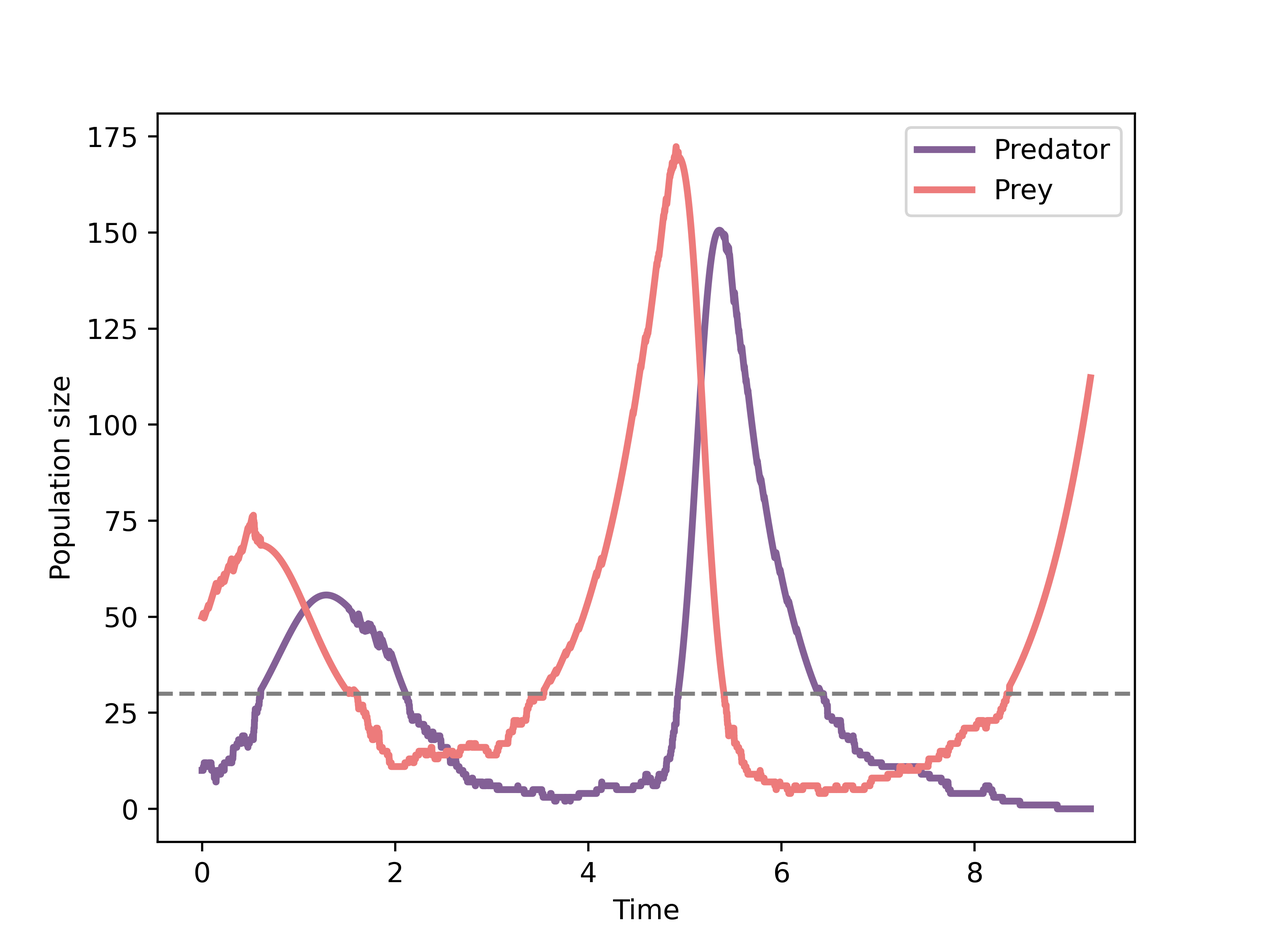
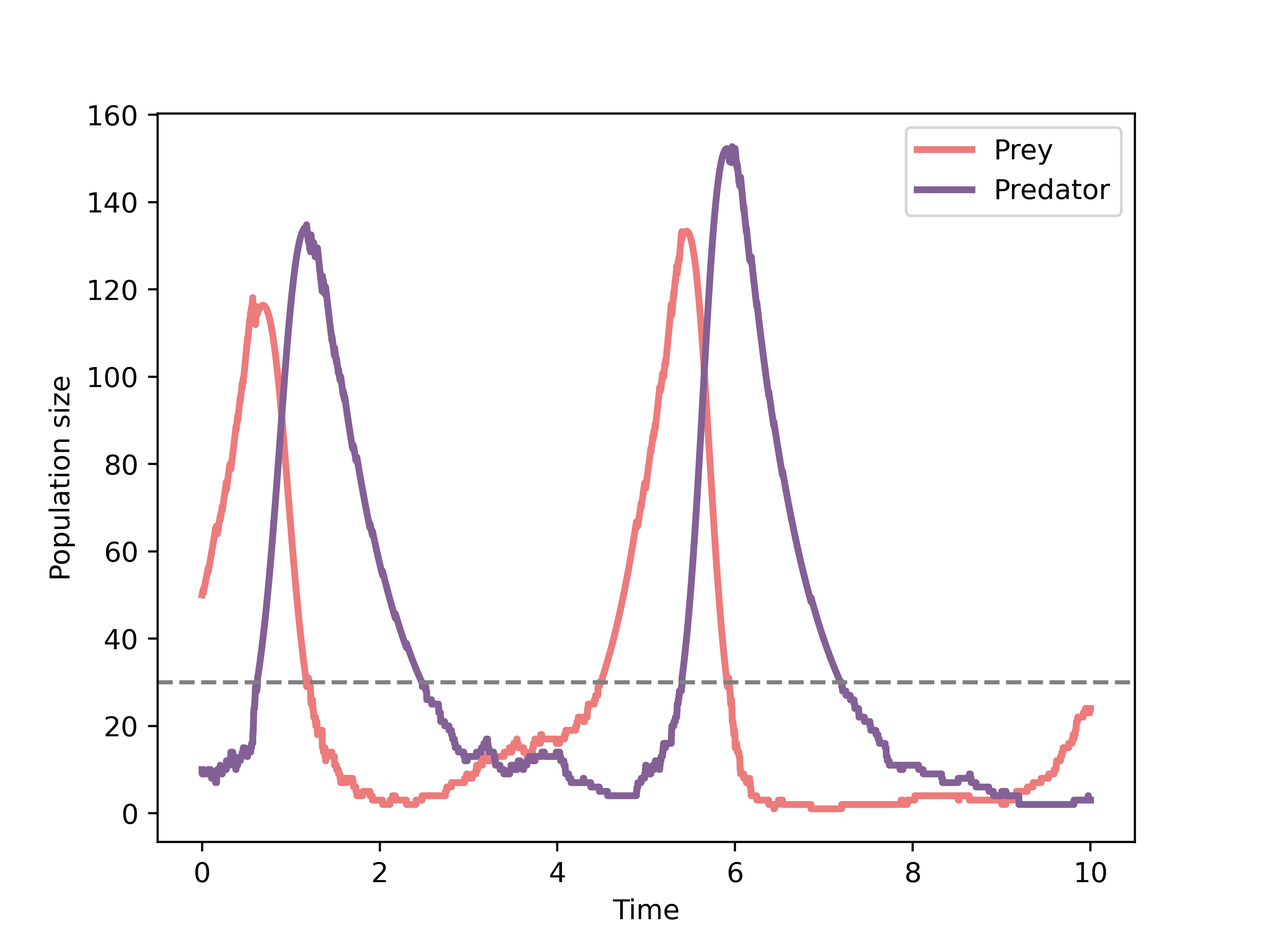
updating JSF

diff --git a/JSF/searchindex.js b/JSF/searchindex.js
@@ -1,1 +1,1 @@
-Search.setIndex({"alltitles": {"API": [[1, "api"]], "Code formating and checking": [[1, "code-formating-and-checking"]], "FAQs": [[1, "faqs"]], "From GitHub": [[1, "from-github"]], "From Local Copy": [[1, "from-local-copy"]], "Housekeeping": [[1, "housekeeping"]], "Installation": [[1, "installation"]], "JSF Mathematical Framework": [[1, "jsf-mathematical-framework"]], "Jump-Switch-Flow Documentation": [[1, "jump-switch-flow-documentation"]], "Lotka-Volterra predator-prey model example": [[1, "lotka-volterra-predator-prey-model-example"]], "Modules": [[1, null]], "Overview": [[1, "overview"]], "Predator-prey model with JSF example": [[1, "predator-prey-model-with-jsf-example"]], "Testing": [[1, "testing"]], "Types": [[1, "types"]], "Visualising the simulation": [[1, "visualising-the-simulation"]], "exact": [[0, "module-jsf.exact"]], "jsf": [[2, "module-jsf"]]}, "docnames": ["exact", "index", "jsf"], "envversion": {"sphinx": 61, "sphinx.domains.c": 3, "sphinx.domains.changeset": 1, "sphinx.domains.citation": 1, "sphinx.domains.cpp": 9, "sphinx.domains.index": 1, "sphinx.domains.javascript": 3, "sphinx.domains.math": 2, "sphinx.domains.python": 4, "sphinx.domains.rst": 2, "sphinx.domains.std": 2}, "filenames": ["exact.rst", "index.rst", "jsf.rst"], "indexentries": {}, "objects": {"": [[2, 0, 0, "-", "jsf"]], "jsf": [[2, 1, 1, "", "ArrayMultiplyAB"], [2, 1, 1, "", "ArrayPlusAB"], [2, 1, 1, "", "ArraySubtractAB"], [2, 1, 1, "", "ComputeFiringTimes"], [2, 1, 1, "", "ComputeIntegralOfFiringTimes"], [2, 1, 1, "", "ComputedXdt"], [2, 1, 1, "", "ImplementFiredReaction"], [2, 1, 1, "", "IsDiscrete"], [2, 1, 1, "", "JumpSwitchFlowSimulator"], [2, 1, 1, "", "MatrixDOTArray"], [2, 1, 1, "", "MatrixPlusAB"], [2, 1, 1, "", "MatrixSubtractAB"], [2, 1, 1, "", "UpdateCompartmentRegime"], [0, 0, 0, "-", "exact"], [2, 1, 1, "", "jsf"], [2, 1, 1, "", "num_non_zero"]], "jsf.exact": [[0, 2, 1, "", "JumpClock"], [0, 1, 1, "", "JumpSwitchFlowExact"]], "jsf.exact.JumpClock": [[0, 3, 1, "", "clock"], [0, 4, 1, "", "set_clock"], [0, 3, 1, "", "start_time"]]}, "objnames": {"0": ["py", "module", "Python module"], "1": ["py", "function", "Python function"], "2": ["py", "class", "Python class"], "3": ["py", "attribute", "Python attribute"], "4": ["py", "method", "Python method"]}, "objtypes": {"0": "py:module", "1": "py:function", "2": "py:class", "3": "py:attribute", "4": "py:method"}, "terms": {"": 1, "0": 1, "00": 1, "01": 1, "05": 1, "0right": [], "1": 1, "10": 1, "1000": [], "1a": [], "1b": [], "1c": [], "1d": [], "2": 1, "2e": [], "3": [], "30": 1, "4": [], "42": 1, "50": 1, "500": 1, "6": [], "600": [], "7": [], "9": 1, "A": 2, "As": 1, "At": 1, "For": 1, "If": [1, 2], "In": 1, "It": [0, 1], "The": [1, 2], "Then": [], "There": 1, "These": 1, "To": 1, "_": 1, "_f": 1, "_j": 1, "_k": 1, "_kinmathc": [], "_static": [], "abl": 1, "abov": 1, "absorb": 1, "abst": 2, "accommod": 1, "actual": 1, "ae": [], "after": [], "algorithm": 1, "align": [], "all": 1, "allow": 1, "alpha": 1, "also": [], "alt": [], "amount": [], "an": 1, "analog": 1, "ani": [0, 1, 2], "answer": 1, "ar": [1, 2], "arg": [0, 2], "around": [], "arrai": [1, 2], "arraya": 2, "arrayb": 2, "arraymultiplyab": [1, 2], "arrayplusab": [1, 2], "arraysubtractab": [1, 2], "arriv": [], "assist": [], "assum": 1, "atto": 1, "avail": 1, "axhlin": 1, "b": 1, "bar": 1, "base": 0, "becaus": 1, "becom": 1, "been": 1, "befor": [], "begin": 1, "behav": 1, "behaviour": 1, "being": 1, "below": 1, "beta": 1, "between": 1, "bit": 1, "black": 1, "block": 1, "bool": 2, "boolean": [1, 2], "both": 1, "c": 1, "call": 1, "callabl": [0, 2], "can": 1, "capabl": 1, "captur": 1, "case": 1, "caus": 1, "cc": [], "cdot": 1, "cell": 1, "center": [], "chang": 1, "class": 0, "classic": 1, "clock": 0, "coeffici": 1, "coexist": 1, "color": 1, "colour": [], "column": 1, "com": 1, "combin": 1, "command": 1, "compar": 1, "compart": [1, 2], "compartinnu": 2, "compartment": 1, "compartmentvalu": 1, "comput": [0, 2], "computedxdt": [1, 2], "computefiringtim": [1, 2], "computeintegraloffiringtim": [1, 2], "condit": 1, "config": 1, "configur": 1, "conserv": 1, "consid": 1, "consist": [], "constant": 1, "consum": [], "contain": [1, 2], "continu": [1, 2], "continuum": 1, "contribut": 2, "could": 1, "count": [], "coupl": 1, "cp": [], "cross": 1, "ctmc": 1, "cup": 1, "current": 2, "cycl": 1, "d": 1, "dash": [], "data": [], "datafram": 1, "death": 1, "decreas": 1, "defin": 1, "definit": 1, "delta": 1, "delta_": [], "denot": 1, "depend": 1, "deriv": [1, 2], "describ": 1, "descript": 1, "detail": [], "determinist": 1, "dgermano8": 1, "diagram": 1, "dict": [0, 2], "dictionari": 2, "die": 1, "differ": 1, "differenti": [], "directori": 1, "discov": 1, "discret": 1, "do": 1, "dodisc": [1, 2], "doe": 0, "domain": 1, "down": [], "dpi": 1, "dt": [1, 2], "dtau": 2, "due": 1, "dure": [], "dv_i": [], "dxdt": 2, "dynam": 1, "e": 1, "each": [1, 2], "eas": 1, "easi": 1, "eat": 1, "eaten": 1, "effect": 1, "either": 1, "element": 1, "emph": [], "end": 1, "enforcedo": [1, 2], "ensur": 1, "entri": 1, "equat": 1, "eta": 1, "eta_": 1, "etain": [], "euler": 0, "event": 1, "evok": [], "exact": 1, "exhibit": 1, "exist": 1, "exp": [], "exposit": 1, "extinct": 1, "famou": 1, "fanci": 1, "few": [], "figur": 1, "final": [1, 2], "fire": [], "firedreact": 2, "first": 1, "float": [0, 1, 2], "flow": [0, 2], "follow": 1, "form": 1, "formal": 1, "forward": 0, "fox": 1, "frac": 1, "frequent": 1, "from": 2, "frozen": 2, "frozenreact": 2, "function": [0, 1, 2], "gamma": 1, "gener": 2, "geom_hlin": [], "geom_lin": [], "geq": 1, "ggplot": [], "git": 1, "give": [], "given": 1, "gone": 1, "govern": [], "ha": 1, "had": 1, "have": 1, "height": [], "help": 1, "here": 1, "high": 1, "hint": 1, "hit": [], "hline": 1, "homogen": 1, "how": 1, "howev": 1, "html": [], "http": 1, "hybrid": 1, "i": [0, 1, 2], "id_var": [], "ie": [], "ignor": 1, "ik": 1, "imag": [], "implement": 2, "implementfiredreact": [1, 2], "import": 1, "importantli": 1, "includ": 1, "increas": [], "indic": 2, "individu": 1, "infeasibli": 1, "infect": 1, "infecti": [], "influenc": 1, "inform": 1, "infrequ": 1, "infti": 1, "inhomogen": [], "initalis": 1, "initi": [0, 1, 2], "initialis": 1, "inmathbb": [], "instantan": 1, "int": 2, "int_": 1, "integ": 1, "integraloffiringtim": 2, "integralstep": 2, "interv": 1, "involv": [], "irrespect": 1, "isdiscret": [1, 2], "issu": 1, "iter": 2, "j": [], "j_": [], "j_i": [], "j_k": [], "jsf": 0, "jump": [0, 2], "jumpclock": [0, 1], "jumpswitchflowexact": [0, 1], "jumpswitchflowsimul": [1, 2], "just": 1, "k": 1, "kei": 1, "klein": [], "kwarg": 2, "lab": [], "label": 1, "lambda": 1, "lambda_": 1, "lambda_j": [], "lambda_k": 1, "larger": 1, "later": 1, "ldot": 1, "least": [], "left": 1, "legend": 1, "legend_posit": [], "length": 1, "leq": 1, "let": 1, "leverag": 1, "librari": 1, "limit": 1, "linestyl": 1, "linetyp": [], "list": [0, 1, 2], "littl": 1, "ll": 1, "lodg": 1, "low": 1, "m": 1, "ma": 1, "made": 1, "mai": 1, "make": 1, "manuscript": 1, "map": [], "mass": 1, "math": [], "mathbb": 1, "mathcal": 1, "mathrm": 1, "matplotlib": 1, "matric": 1, "matrix": [0, 1, 2], "matrixa": 2, "matrixb": 2, "matrixdotarrai": [1, 2], "matrixplusab": [1, 2], "matrixsubtractab": [1, 2], "maximum": [0, 1], "mb": 1, "mc": 1, "mean": [], "melt": [], "method": [1, 2], "might": 1, "minimum": [], "model": 0, "molecul": 1, "moment": 1, "more": 1, "mount": [], "my": [], "my_opt": 1, "mypi": 1, "n": 1, "name": 1, "ncompart": 2, "necessari": 1, "need": 1, "neq": 1, "net": [], "new": [], "new_clock": 0, "next": 1, "none": 0, "notat": 1, "note": 1, "noth": 1, "now": 1, "nrate": 2, "nu": [1, 2], "num_non_zero": [1, 2], "number": [1, 2], "numer": 0, "nuproduct": 1, "nureact": 1, "object": 0, "observ": 1, "obtain": 1, "occur": 1, "occurr": [], "od": 1, "odemodel": [], "omega": 1, "omega_": 1, "omega_i": 1, "onc": 1, "one": 1, "onli": 1, "oper": [0, 1, 2], "option": [0, 1, 2], "order": 1, "originaldodisc": 2, "other": [], "otherwis": 1, "output": 1, "p": 1, "packag": 1, "page": 1, "panda": 1, "paradigm": 1, "paramet": 1, "partial_": 1, "partit": 1, "path": 1, "pathogen": 1, "pd": 1, "peopl": 1, "per": 1, "perhap": 1, "permit": 1, "pip": 1, "pleas": 1, "plot": 1, "plotnin": [], "plt": 1, "png": 1, "point": [], "poisson": [], "popul": 1, "possibl": 1, "predat": [], "predatorprei": 1, "preditor": 1, "preditorprei": [], "preditorpreymodel": [], "prefer": 1, "present": [], "problem": 1, "process": [1, 2], "produc": [], "product": [], "product_matrix": 1, "prop": 2, "propens": [1, 2], "properti": 1, "proport": 1, "propos": 1, "provid": 1, "public": 1, "pypi": 1, "pyplot": 1, "python3": 1, "q": 1, "qtime": [], "question": 1, "r": 1, "r1": 1, "r2": 1, "rais": 2, "random": 1, "randtim": 2, "rate": [0, 1, 2], "reach": [], "reactant": 1, "reactant_matrix": 1, "reaction": [0, 1, 2], "real": 1, "realis": 1, "recal": 1, "recov": [], "recoveri": [], "ref": [], "refer": 1, "regim": 1, "relev": 1, "remain": 1, "repres": 1, "reproduc": 1, "reproduct": 1, "request": 2, "requir": [], "resolut": 1, "respect": 1, "rest": [], "result": 1, "return": [0, 2], "right": 1, "robert": [], "row": 1, "run": 1, "runtimeerror": 2, "sai": 1, "sampl": [1, 2], "save": [], "savefig": 1, "scale": 1, "scale_y_sqrt": [], "second": [], "see": 1, "seed": 1, "sens": 0, "separ": 1, "seri": 2, "set": 1, "set_clock": 0, "setminu": 1, "share": 1, "should": 1, "show": 1, "shown": 1, "sim": 1, "sim_df": [], "sim_p9": [], "similar": 1, "simpl": 1, "simul": [0, 2], "sinc": [], "singl": 1, "sis_exampl": [], "size": 1, "small": 1, "so": 1, "some": 1, "space": 1, "speci": 1, "specif": 1, "specifi": 1, "spike": 1, "split": [0, 1, 2], "start_tim": 0, "state": [0, 1, 2], "statu": [], "step": 1, "stochast": 1, "stoich": [0, 1, 2], "stoichiometr": 1, "stoichiometri": [0, 1, 2], "store": 1, "str": [0, 2], "strictli": [], "subset": 1, "subseteq": 1, "sum": 2, "sum_": [], "suscept": 1, "switch": [0, 2], "switchingthreshold": [1, 2], "system": [1, 2], "systemst": [0, 1, 2], "t": [1, 2], "t_": [], "t_0": 1, "t_1": 1, "t_max": [0, 1, 2], "take": [1, 2], "tauarrai": 2, "tell": 1, "text": 1, "textit": 1, "th": 1, "thei": 1, "them": 1, "theme": [], "theme_bw": [], "therefor": 1, "thi": 1, "thing": [], "those": 1, "three": [], "threshold": 1, "through": [], "throughout": 1, "time": [0, 1, 2], "timepass": 2, "top": [], "train": 1, "trajectori": [0, 2], "transit": 1, "treat": 1, "triangular": 1, "two": 1, "type": 0, "typic": 1, "u": 1, "u_": [], "under": 1, "uniform": [], "unit": 1, "unittest": 1, "unlik": 1, "until": 1, "updatecompartmentregim": [1, 2], "upon": 1, "upper": 1, "us": [0, 1, 2], "usual": 1, "v": 1, "v_": 1, "v_1": 1, "v_2": 1, "v_i": 1, "v_iinvec": [], "valu": 1, "value_var": [], "vari": 1, "variabl": 1, "vec": 1, "vector": [1, 2], "via": [], "wa": 1, "wai": 1, "want": [], "we": 1, "websit": [], "when": 1, "where": 1, "whether": 1, "which": [1, 2], "whichev": 1, "while": 1, "width": [], "won": 1, "work": 1, "would": 1, "written": 1, "x": [1, 2], "x0": [0, 1, 2], "xcurr": 2, "xlabel": 1, "xprev": 2, "y": 1, "yet": 1, "yintercept": [], "ylabel": 1, "you": 1, "z": 1, "zero": [], "zip": 1}, "titles": ["exact", "Jump-Switch-Flow Documentation", "jsf"], "titleterms": {"api": 1, "build": [], "check": 1, "code": 1, "copi": 1, "defin": [], "document": 1, "epidem": [], "exact": 0, "exampl": 1, "faq": 1, "flow": 1, "format": 1, "framework": 1, "from": 1, "github": 1, "housekeep": 1, "instal": 1, "jsf": [1, 2], "jump": 1, "local": 1, "lotka": 1, "mathemat": 1, "method": [], "model": 1, "modul": 1, "overview": 1, "peditor": [], "predat": 1, "preditor": [], "prei": 1, "si": [], "simul": 1, "switch": 1, "test": 1, "type": 1, "visualis": 1, "volterra": 1, "welcom": []}})
+Search.setIndex({"alltitles": {"API": [[1, "api"]], "Code formating and checking": [[1, "code-formating-and-checking"]], "FAQs": [[1, "faqs"]], "From GitHub": [[1, "from-github"]], "From Local Copy": [[1, "from-local-copy"]], "Housekeeping": [[1, "housekeeping"]], "Installation": [[1, "installation"]], "JSF Mathematical Framework": [[1, "jsf-mathematical-framework"]], "Jump-Switch-Flow Documentation": [[1, "jump-switch-flow-documentation"]], "Lotka-Volterra predator-prey model example": [[1, "lotka-volterra-predator-prey-model-example"]], "Modules": [[1, null]], "Overview": [[1, "overview"]], "Predator-prey model with JSF example": [[1, "predator-prey-model-with-jsf-example"]], "Testing": [[1, "testing"]], "Types": [[1, "types"]], "Visualising the simulation": [[1, "visualising-the-simulation"]], "exact": [[0, "module-jsf.exact"]], "jsf": [[2, "module-jsf"]]}, "docnames": ["exact", "index", "jsf"], "envversion": {"sphinx": 61, "sphinx.domains.c": 3, "sphinx.domains.changeset": 1, "sphinx.domains.citation": 1, "sphinx.domains.cpp": 9, "sphinx.domains.index": 1, "sphinx.domains.javascript": 3, "sphinx.domains.math": 2, "sphinx.domains.python": 4, "sphinx.domains.rst": 2, "sphinx.domains.std": 2}, "filenames": ["exact.rst", "index.rst", "jsf.rst"], "indexentries": {}, "objects": {"": [[2, 0, 0, "-", "jsf"]], "jsf": [[2, 1, 1, "", "ArrayMultiplyAB"], [2, 1, 1, "", "ArrayPlusAB"], [2, 1, 1, "", "ArraySubtractAB"], [2, 1, 1, "", "ComputeFiringTimes"], [2, 1, 1, "", "ComputeIntegralOfFiringTimes"], [2, 1, 1, "", "ComputedXdt"], [2, 1, 1, "", "ImplementFiredReaction"], [2, 1, 1, "", "IsDiscrete"], [2, 1, 1, "", "JumpSwitchFlowSimulator"], [2, 1, 1, "", "MatrixDOTArray"], [2, 1, 1, "", "MatrixPlusAB"], [2, 1, 1, "", "MatrixSubtractAB"], [2, 1, 1, "", "UpdateCompartmentRegime"], [0, 0, 0, "-", "exact"], [2, 1, 1, "", "jsf"], [2, 1, 1, "", "num_non_zero"]], "jsf.exact": [[0, 2, 1, "", "JumpClock"], [0, 1, 1, "", "JumpSwitchFlowExact"]], "jsf.exact.JumpClock": [[0, 3, 1, "", "clock"], [0, 4, 1, "", "set_clock"], [0, 3, 1, "", "start_time"]]}, "objnames": {"0": ["py", "module", "Python module"], "1": ["py", "function", "Python function"], "2": ["py", "class", "Python class"], "3": ["py", "attribute", "Python attribute"], "4": ["py", "method", "Python method"]}, "objtypes": {"0": "py:module", "1": "py:function", "2": "py:class", "3": "py:attribute", "4": "py:method"}, "terms": {"": 1, "0": 1, "00": 1, "01": 1, "05": 1, "0right": [], "1": 1, "10": 1, "1000": [], "1a": [], "1b": [], "1c": [], "1d": [], "2": 1, "2e": [], "3": [], "30": 1, "4": [], "42": 1, "50": 1, "500": 1, "6": [], "600": [], "7": [], "9": [], "A": 2, "As": 1, "At": 1, "For": 1, "If": [1, 2], "In": 1, "It": [0, 1], "The": [1, 2], "Then": [], "There": 1, "These": 1, "To": 1, "_": 1, "_f": 1, "_j": 1, "_k": 1, "_kinmathc": [], "_static": [], "abl": 1, "abov": 1, "absorb": 1, "abst": 2, "accommod": 1, "actual": 1, "ae": [], "after": [], "algorithm": 1, "align": [], "all": 1, "allow": 1, "alpha": 1, "also": [], "alt": [], "amount": [], "an": 1, "analog": 1, "ani": [0, 1, 2], "answer": 1, "ar": [1, 2], "arg": [0, 2], "around": [], "arrai": [1, 2], "arraya": 2, "arrayb": 2, "arraymultiplyab": [1, 2], "arrayplusab": [1, 2], "arraysubtractab": [1, 2], "arriv": [], "assist": [], "assum": 1, "atto": 1, "avail": 1, "axhlin": 1, "b": 1, "bar": 1, "base": 0, "becaus": 1, "becom": 1, "been": 1, "befor": [], "begin": 1, "behav": 1, "behaviour": 1, "being": 1, "below": 1, "beta": 1, "between": 1, "bit": 1, "black": 1, "block": 1, "bool": 2, "boolean": [1, 2], "both": 1, "c": 1, "call": 1, "callabl": [0, 2], "can": 1, "capabl": 1, "captur": 1, "case": 1, "caus": 1, "cc": [], "cdot": 1, "cell": 1, "center": [], "chang": 1, "class": 0, "classic": 1, "clock": 0, "coeffici": 1, "coexist": 1, "color": 1, "colour": [], "column": 1, "com": 1, "combin": 1, "command": 1, "compar": 1, "compart": [1, 2], "compartinnu": 2, "compartment": 1, "compartmentvalu": 1, "comput": [0, 2], "computedxdt": [1, 2], "computefiringtim": [1, 2], "computeintegraloffiringtim": [1, 2], "condit": 1, "config": 1, "configur": 1, "conserv": 1, "consid": 1, "consist": [], "constant": 1, "consum": [], "contain": [1, 2], "continu": [1, 2], "continuum": 1, "contribut": 2, "could": 1, "count": [], "coupl": 1, "cp": [], "cross": 1, "ctmc": 1, "cup": 1, "current": 2, "cycl": 1, "d": 1, "dash": [], "data": [], "datafram": 1, "death": 1, "decreas": 1, "defin": 1, "definit": 1, "delta": 1, "delta_": [], "denot": 1, "depend": 1, "deriv": [1, 2], "describ": 1, "descript": 1, "detail": [], "determinist": 1, "dgermano8": 1, "diagram": 1, "dict": [0, 2], "dictionari": 2, "die": 1, "differ": 1, "differenti": [], "directori": 1, "discov": 1, "discret": 1, "do": 1, "dodisc": [1, 2], "doe": 0, "domain": 1, "down": [], "dpi": 1, "dt": [1, 2], "dtau": 2, "due": 1, "dure": [], "dv_i": [], "dxdt": 2, "dynam": 1, "e": 1, "each": [1, 2], "eas": 1, "easi": 1, "eat": 1, "eaten": 1, "effect": 1, "either": 1, "element": 1, "emph": [], "end": 1, "enforcedo": [1, 2], "ensur": 1, "entri": 1, "equat": 1, "eta": 1, "eta_": 1, "etain": [], "euler": 0, "event": 1, "evok": [], "exact": 1, "exhibit": 1, "exist": 1, "exp": [], "exposit": 1, "extinct": 1, "famou": 1, "fanci": 1, "few": [], "figur": 1, "final": [1, 2], "fire": [], "firedreact": 2, "first": 1, "float": [0, 1, 2], "flow": [0, 2], "follow": 1, "form": 1, "formal": 1, "forward": 0, "fox": 1, "frac": 1, "frequent": 1, "from": 2, "frozen": 2, "frozenreact": 2, "function": [0, 1, 2], "gamma": 1, "gener": 2, "geom_hlin": [], "geom_lin": [], "geq": 1, "ggplot": [], "git": 1, "give": [], "given": 1, "gone": 1, "govern": [], "ha": 1, "had": 1, "have": 1, "height": [], "help": 1, "here": 1, "high": 1, "hint": 1, "hit": [], "hline": 1, "homogen": 1, "how": 1, "howev": 1, "html": [], "http": 1, "hybrid": 1, "i": [0, 1, 2], "id_var": [], "ie": [], "ignor": 1, "ik": 1, "imag": [], "implement": 2, "implementfiredreact": [1, 2], "import": 1, "importantli": 1, "includ": 1, "increas": [], "indic": 2, "individu": 1, "infeasibli": 1, "infect": 1, "infecti": [], "influenc": 1, "inform": 1, "infrequ": 1, "infti": 1, "inhomogen": [], "initalis": 1, "initi": [0, 1, 2], "initialis": 1, "inmathbb": [], "instantan": 1, "int": 2, "int_": 1, "integ": 1, "integraloffiringtim": 2, "integralstep": 2, "interv": 1, "involv": [], "irrespect": 1, "isdiscret": [1, 2], "issu": 1, "iter": 2, "j": [], "j_": [], "j_i": [], "j_k": [], "jsf": 0, "jump": [0, 2], "jumpclock": [0, 1], "jumpswitchflowexact": [0, 1], "jumpswitchflowsimul": [1, 2], "just": 1, "k": 1, "kei": 1, "klein": [], "kwarg": 2, "lab": [], "label": 1, "lambda": 1, "lambda_": 1, "lambda_j": [], "lambda_k": 1, "larger": 1, "later": 1, "ldot": 1, "least": [], "left": 1, "legend": 1, "legend_posit": [], "length": 1, "leq": 1, "let": 1, "leverag": 1, "librari": 1, "limit": 1, "linestyl": 1, "linetyp": [], "list": [0, 1, 2], "littl": 1, "ll": 1, "lodg": 1, "low": 1, "m": 1, "ma": 1, "made": 1, "mai": 1, "make": 1, "manuscript": 1, "map": [], "mass": 1, "math": [], "mathbb": 1, "mathcal": 1, "mathrm": 1, "matplotlib": 1, "matric": 1, "matrix": [0, 1, 2], "matrixa": 2, "matrixb": 2, "matrixdotarrai": [1, 2], "matrixplusab": [1, 2], "matrixsubtractab": [1, 2], "maximum": [0, 1], "mb": 1, "mc": 1, "mean": [], "melt": [], "method": [1, 2], "might": 1, "minimum": [], "model": 0, "molecul": 1, "moment": 1, "more": 1, "mount": [], "my": [], "my_opt": 1, "mypi": 1, "n": 1, "name": 1, "ncompart": 2, "necessari": 1, "need": 1, "neq": 1, "net": [], "new": [], "new_clock": 0, "next": 1, "none": 0, "notat": 1, "note": 1, "noth": 1, "now": 1, "nrate": 2, "nu": [1, 2], "num_non_zero": [1, 2], "number": [1, 2], "numer": 0, "nuproduct": 1, "nureact": 1, "object": 0, "observ": 1, "obtain": 1, "occur": 1, "occurr": [], "od": 1, "odemodel": [], "omega": 1, "omega_": 1, "omega_i": 1, "onc": 1, "one": 1, "onli": 1, "oper": [0, 1, 2], "option": [0, 1, 2], "order": 1, "originaldodisc": 2, "other": [], "otherwis": 1, "output": 1, "p": 1, "packag": 1, "page": 1, "panda": 1, "paradigm": 1, "paramet": 1, "partial_": 1, "partit": 1, "path": 1, "pathogen": 1, "pd": 1, "peopl": 1, "per": 1, "perhap": 1, "permit": 1, "pip": 1, "pleas": 1, "plot": 1, "plotnin": [], "plt": 1, "png": 1, "point": [], "poisson": [], "popul": 1, "possibl": 1, "predat": [], "predatorprei": 1, "preditor": 1, "preditorprei": [], "preditorpreymodel": [], "prefer": 1, "present": [], "problem": 1, "process": [1, 2], "produc": [], "product": [], "product_matrix": 1, "prop": 2, "propens": [1, 2], "properti": 1, "proport": 1, "propos": 1, "provid": 1, "public": 1, "pypi": 1, "pyplot": 1, "python3": 1, "q": 1, "qtime": [], "question": 1, "r": 1, "r1": 1, "r2": 1, "rais": 2, "random": 1, "randtim": 2, "rate": [0, 1, 2], "reach": [], "reactant": 1, "reactant_matrix": 1, "reaction": [0, 1, 2], "real": 1, "realis": 1, "recal": 1, "recov": [], "recoveri": [], "ref": [], "refer": 1, "regim": 1, "relev": 1, "remain": 1, "repres": 1, "reproduc": 1, "reproduct": 1, "request": 2, "requir": [], "resolut": 1, "respect": 1, "rest": [], "result": 1, "return": [0, 2], "right": 1, "robert": [], "row": 1, "run": 1, "runtimeerror": 2, "sai": 1, "sampl": [1, 2], "save": [], "savefig": 1, "scale": 1, "scale_y_sqrt": [], "second": [], "see": 1, "seed": 1, "sens": 0, "separ": 1, "seri": 2, "set": 1, "set_clock": 0, "setminu": 1, "share": 1, "should": 1, "show": 1, "shown": 1, "sim": 1, "sim_df": [], "sim_p9": [], "similar": 1, "simpl": 1, "simul": [0, 2], "sinc": [], "singl": 1, "sis_exampl": [], "size": 1, "small": 1, "so": 1, "some": 1, "space": 1, "speci": 1, "specif": 1, "specifi": 1, "spike": 1, "split": [0, 1, 2], "start_tim": 0, "state": [0, 1, 2], "statu": [], "step": 1, "stochast": 1, "stoich": [0, 1, 2], "stoichiometr": 1, "stoichiometri": [0, 1, 2], "store": 1, "str": [0, 2], "strictli": [], "subset": 1, "subseteq": 1, "sum": 2, "sum_": [], "suscept": 1, "switch": [0, 2], "switchingthreshold": [1, 2], "system": [1, 2], "systemst": [0, 1, 2], "t": [1, 2], "t_": [], "t_0": 1, "t_1": 1, "t_max": [0, 1, 2], "take": [1, 2], "tauarrai": 2, "tell": 1, "text": 1, "textit": 1, "th": 1, "thei": 1, "them": 1, "theme": [], "theme_bw": [], "therefor": 1, "thi": 1, "thing": [], "those": 1, "three": [], "threshold": 1, "through": [], "throughout": 1, "time": [0, 1, 2], "timepass": 2, "top": [], "train": 1, "trajectori": [0, 2], "transit": 1, "treat": 1, "triangular": 1, "two": 1, "type": 0, "typic": 1, "u": 1, "u_": [], "under": 1, "uniform": [], "unit": 1, "unittest": 1, "unlik": 1, "until": 1, "updatecompartmentregim": [1, 2], "upon": 1, "upper": 1, "us": [0, 1, 2], "usual": 1, "v": 1, "v_": 1, "v_1": 1, "v_2": 1, "v_i": 1, "v_iinvec": [], "valu": 1, "value_var": [], "vari": 1, "variabl": 1, "vec": 1, "vector": [1, 2], "via": [], "wa": 1, "wai": 1, "want": [], "we": 1, "websit": [], "when": 1, "where": 1, "whether": 1, "which": [1, 2], "whichev": 1, "while": 1, "width": [], "won": 1, "work": 1, "would": 1, "written": 1, "x": [1, 2], "x0": [0, 1, 2], "xcurr": 2, "xlabel": 1, "xprev": 2, "y": 1, "yet": 1, "yintercept": [], "ylabel": 1, "you": 1, "z": 1, "zero": [], "zip": 1}, "titles": ["exact", "Jump-Switch-Flow Documentation", "jsf"], "titleterms": {"api": 1, "build": [], "check": 1, "code": 1, "copi": 1, "defin": [], "document": 1, "epidem": [], "exact": 0, "exampl": 1, "faq": 1, "flow": 1, "format": 1, "framework": 1, "from": 1, "github": 1, "housekeep": 1, "instal": 1, "jsf": [1, 2], "jump": 1, "local": 1, "lotka": 1, "mathemat": 1, "method": [], "model": 1, "modul": 1, "overview": 1, "peditor": [], "predat": 1, "preditor": [], "prei": 1, "si": [], "simul": 1, "switch": 1, "test": 1, "type": 1, "visualis": 1, "volterra": 1, "welcom": []}})

diff --git a/JSF/index.html b/JSF/index.html
@@ -184,35 +184,35 @@ as shown in the figure below.</p>
 <p>Next, we define the initial condition of the predator-prey model and the
 model parameters. The predator-prey model has two compartments, so we define the
 initial condition as a list of length two:</p>
-<div class="highlight-python notranslate"><div class="highlight"><pre><span></span><span class="n">x0</span> <span class="o">=</span> <span class="p">[</span><span class="mi">10</span><span class="p">,</span> <span class="mi">50</span><span class="p">]</span>
+<div class="highlight-python notranslate"><div class="highlight"><pre><span></span><span class="n">x0</span> <span class="o">=</span> <span class="p">[</span><span class="mi">50</span><span class="p">,</span> <span class="mi">10</span><span class="p">]</span>
 </pre></div>
 </div>
 <p>This initalises the model with 50 prey and 10 predators.</p>
 <p>Next, the model parameters are the reproduction rate of the prey, <code class="docutils literal notranslate"><span class="pre">mA</span></code>, the predation rate, <code class="docutils literal notranslate"><span class="pre">mB</span></code>,
 the death rate of the predators, <code class="docutils literal notranslate"><span class="pre">mC</span></code>:</p>
 <div class="highlight-python notranslate"><div class="highlight"><pre><span></span><span class="n">mA</span> <span class="o">=</span> <span class="mf">2.00</span>
-<span class="n">mB</span> <span class="o">=</span> <span class="mf">1.50</span>
-<span class="n">mC</span> <span class="o">=</span> <span class="mf">0.05</span>
+<span class="n">mB</span> <span class="o">=</span> <span class="mf">0.05</span>
+<span class="n">mC</span> <span class="o">=</span> <span class="mf">1.50</span>
 </pre></div>
 </div>
 <p>We then define the Rates if the model:</p>
-<div class="highlight-python notranslate"><div class="highlight"><pre><span></span><span class="n">rates</span> <span class="o">=</span> <span class="k">lambda</span> <span class="n">x</span><span class="p">,</span> <span class="n">t</span><span class="p">:</span> <span class="p">[</span><span class="n">mA</span> <span class="o">*</span> <span class="n">x</span><span class="p">[</span><span class="mi">0</span><span class="p">],</span>
-                      <span class="n">mB</span> <span class="o">*</span> <span class="n">x</span><span class="p">[</span><span class="mi">1</span><span class="p">],</span>
-                      <span class="n">mC</span> <span class="o">*</span> <span class="n">x</span><span class="p">[</span><span class="mi">0</span><span class="p">]</span> <span class="o">*</span> <span class="n">x</span><span class="p">[</span><span class="mi">1</span><span class="p">]]</span>
+<div class="highlight-python notranslate"><div class="highlight"><pre><span></span><span class="n">rates</span> <span class="o">=</span> <span class="k">lambda</span> <span class="n">x</span><span class="p">,</span> <span class="n">_</span><span class="p">:</span> <span class="p">[</span><span class="n">mA</span> <span class="o">*</span> <span class="n">x</span><span class="p">[</span><span class="mi">0</span><span class="p">],</span>
+                      <span class="n">mC</span> <span class="o">*</span> <span class="n">x</span><span class="p">[</span><span class="mi">1</span><span class="p">],</span>
+                      <span class="n">mB</span> <span class="o">*</span> <span class="n">x</span><span class="p">[</span><span class="mi">0</span><span class="p">]</span> <span class="o">*</span> <span class="n">x</span><span class="p">[</span><span class="mi">1</span><span class="p">]]</span>
 </pre></div>
 </div>
 <p>and the stoichiometric matrices of the model:</p>
 <div class="highlight-python notranslate"><div class="highlight"><pre><span></span><span class="n">reactant_matrix</span> <span class="o">=</span> <span class="p">[[</span><span class="mi">1</span> <span class="p">,</span> <span class="mi">0</span><span class="p">],</span>
-                  <span class="p">[</span><span class="mi">0</span> <span class="p">,</span> <span class="mi">1</span><span class="p">],</span>
-                  <span class="p">[</span><span class="mi">1</span> <span class="p">,</span> <span class="mi">1</span><span class="p">]]</span>
+                   <span class="p">[</span><span class="mi">0</span> <span class="p">,</span> <span class="mi">1</span><span class="p">],</span>
+                   <span class="p">[</span><span class="mi">1</span> <span class="p">,</span> <span class="mi">1</span><span class="p">]]</span>
 
-<span class="n">product_matrix</span> <span class="o">=</span> <span class="p">[[</span><span class="mi">0</span> <span class="p">,</span> <span class="mi">0</span><span class="p">],</span>
-                  <span class="p">[</span><span class="mi">0</span> <span class="p">,</span> <span class="mi">2</span><span class="p">],</span>
-                  <span class="p">[</span><span class="mi">2</span> <span class="p">,</span> <span class="mi">0</span><span class="p">]]</span>
+<span class="n">product_matrix</span> <span class="o">=</span> <span class="p">[[</span><span class="mi">2</span> <span class="p">,</span> <span class="mi">0</span><span class="p">],</span>
+                  <span class="p">[</span><span class="mi">0</span> <span class="p">,</span> <span class="mi">0</span><span class="p">],</span>
+                  <span class="p">[</span><span class="mi">0</span> <span class="p">,</span> <span class="mi">2</span><span class="p">]]</span>
 </pre></div>
 </div>
 <p>We define the maximum time of the simulation:</p>
-<div class="highlight-python notranslate"><div class="highlight"><pre><span></span><span class="n">t_max</span> <span class="o">=</span> <span class="mf">9.2</span>
+<div class="highlight-python notranslate"><div class="highlight"><pre><span></span><span class="n">t_max</span> <span class="o">=</span> <span class="mi">10</span>
 </pre></div>
 </div>
 <p>There is a little bit of configuration needed to tell JSF how to

diff --git a/JSF/static/PredatorPrey.py b/JSF/static/PredatorPrey.py
@@ -1,0 +1,52 @@
+import pandas as pd
+import random
+import matplotlib.pyplot as plt
+import jsf
+
+random.seed(42)
+
+x0 = [50, 10]
+
+mA = 2.00
+mB = 0.05
+mC = 1.50
+
+rates = lambda x, _: [mA * x[0],
+                      mC * x[1],
+                      mB * x[0] * x[1]]
+
+reactant_matrix = [[1 , 0],
+                   [0 , 1],
+                   [1 , 1]]
+
+product_matrix = [[2 , 0],
+                  [0 , 0],
+                  [0 , 2]]
+
+t_max = 10
+
+stoich = {
+
+"nu": [
+        [a - b for a, b in zip(r1, r2)] for r1, r2 in zip(product_matrix, reactant_matrix)
+      ],
+
+    "DoDisc": [1, 1],
+    "nuReactant": reactant_matrix,
+    "nuProduct": product_matrix,
+}
+
+my_opts = {"EnforceDo": [0, 0], "dt": 0.001, "SwitchingThreshold": [30, 30]}
+
+sim = jsf.jsf(x0, rates, stoich, t_max, config=my_opts, method="operator-splitting")
+
+plt.plot(sim[1], sim[0][0], label="Prey", color=(0.9294, 0.4824, 0.4824), linewidth=2.5, marker='.', markersize=0.0)
+plt.plot(sim[1], sim[0][1], label="Predator", color=(0.5137, 0.3765, 0.5882),     linewidth=2.5, marker='.', markersize=0.0)
+plt.axhline(y=my_opts["SwitchingThreshold"][1], color=(0.5, 0.5, 0.5), linestyle="--")
+plt.xlabel("Time")
+plt.ylabel("Population size")
+plt.legend()
+plt.savefig('PredatorPrey.png', dpi=500)
+plt.show()
+
+# save matplotlib plot to file
